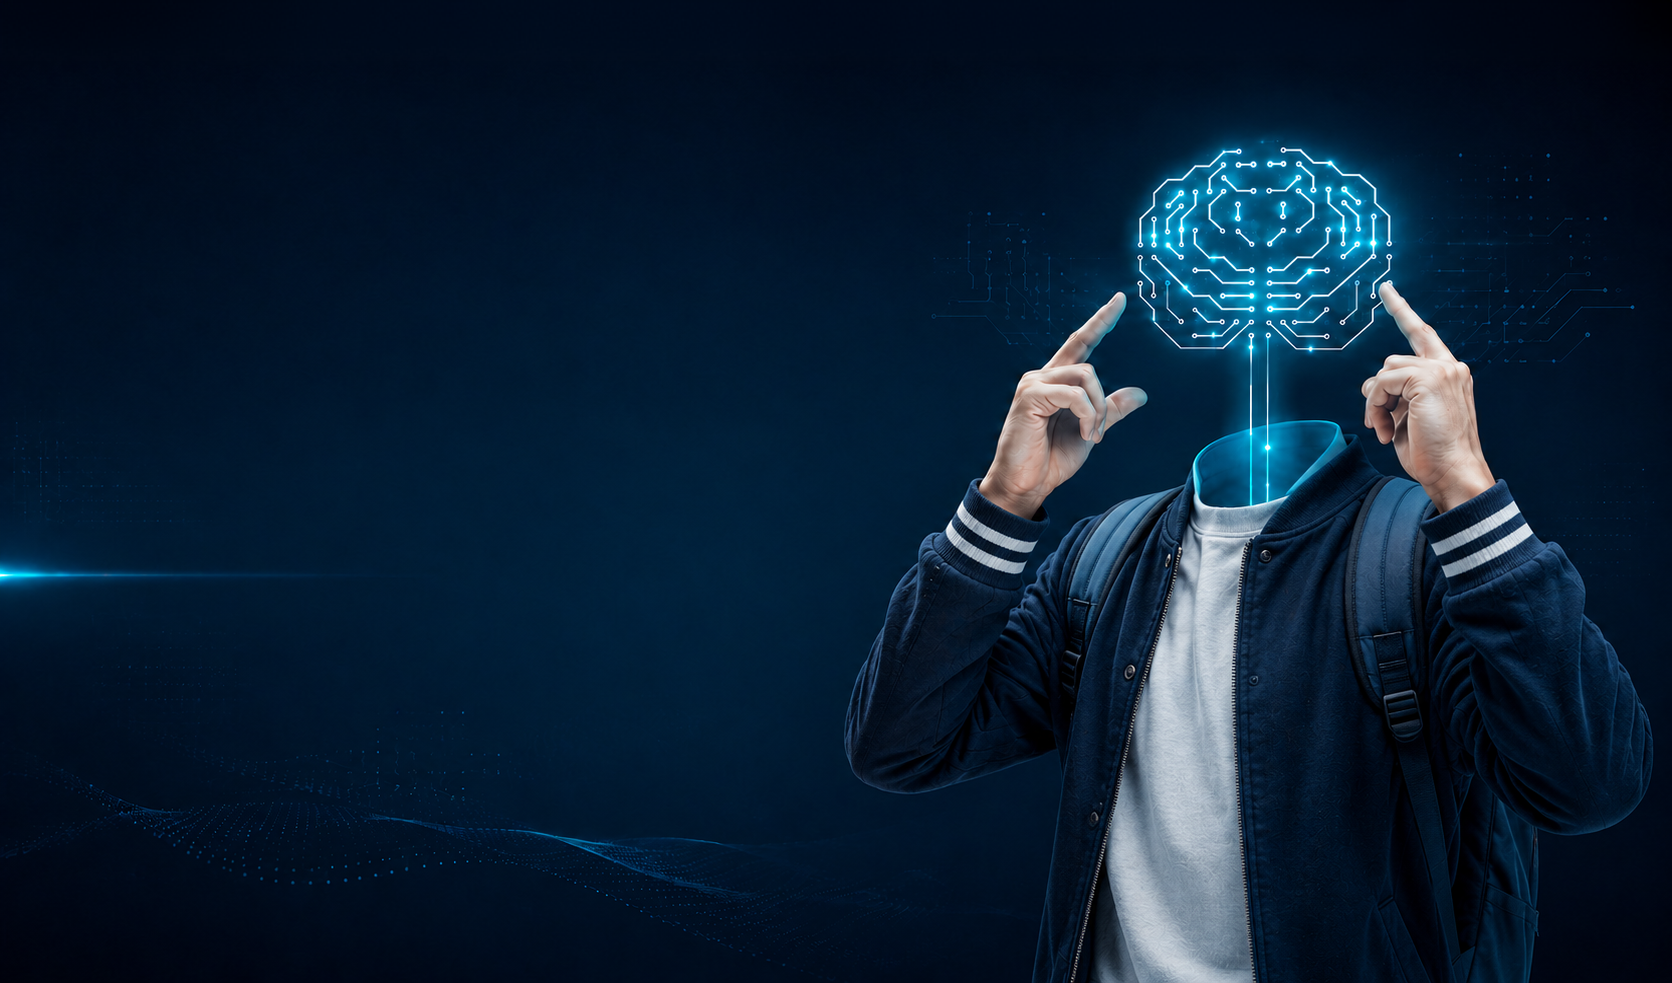
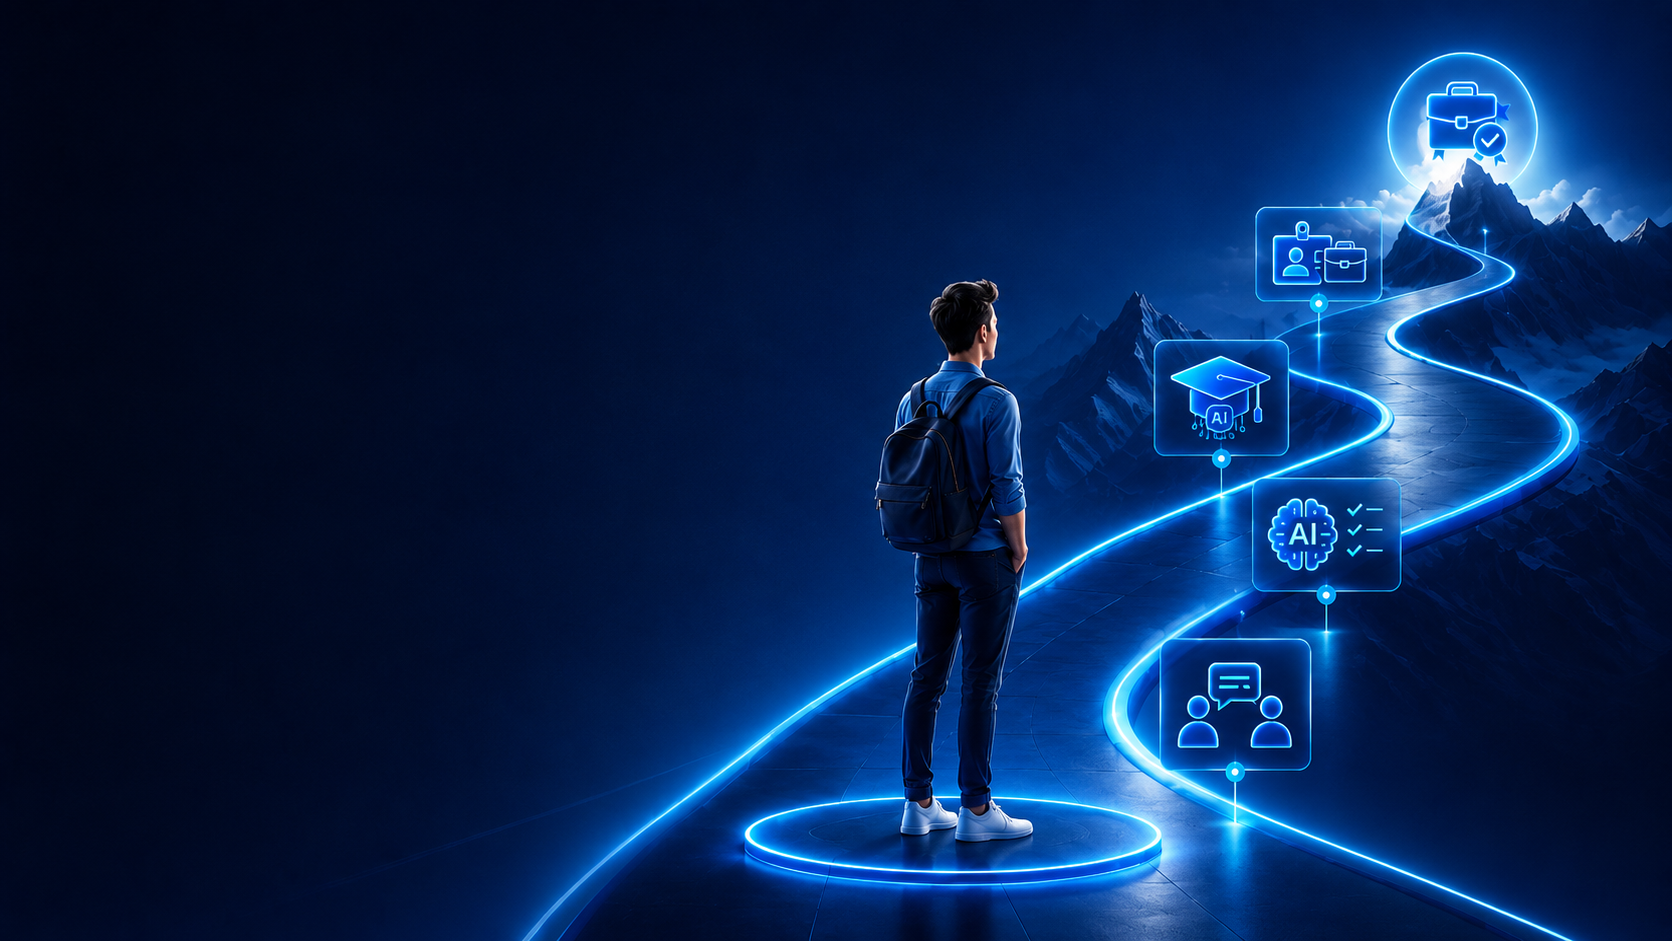
fixed hero page and direct2hire

diff --git a/client/components/sections/Hero.tsx b/client/components/sections/Hero.tsx
@@ -1,23 +1,30 @@
 import Link from "next/link";
-import { ArrowRight, CheckCircle2, Star, Users } from "lucide-react";
-import { Button } from "@/components/ui";
+import { ArrowRight, Users, ClipboardList, Briefcase, Award } from "lucide-react";
+import { Button, CyclingText } from "@/components/ui";
+
+const HERO_GRADIENT_STYLE = {
+  background: "linear-gradient(135deg, #2563EB 0%, #1D4ED8 100%)",
+  WebkitBackgroundClip: "text" as const,
+  WebkitTextFillColor: "transparent" as const,
+  backgroundClip: "text" as const,
+};
 
 const CARDS = [
   {
-    title: "Weekend Live Sessions",
-    description: "Every Saturday & Sunday. Learn without pausing your job or studies."
+    title: "Career Counselling",
+    description: "1-on-1 guidance from experts to map out the right career path for you."
   },
   {
-    title: "Real Projects + Certificate",
-    description: "Build portfolio projects and earn industry-recognized certificates."
+    title: "AI-Powered Assessment",
+    description: "Data-backed insights into your strengths, skills, and best-fit careers."
   },
   {
     title: "Guaranteed Internships",
-    description: "Top performers get real internship opportunities with partner companies."
+    description: "Hands-on industry internships that turn learning into real experience."
   },
   {
-    title: "Built for Busy People",
-    description: "Focused 3-5 week programs designed for students and working professionals."
+    title: "Job Placement Support",
+    description: "Get connected with 500+ hiring partners and land your first role."
   }
 ];
 
@@ -39,34 +46,34 @@ export function Hero() {
             <div className="anim-fade-up flex">
               <span className="inline-flex items-center gap-2 px-3 py-1.5 rounded-full bg-white border border-brand-200 text-brand-700 text-xs font-semibold tracking-wider shadow-sm">
                 <span className="w-2 h-2 rounded-full bg-green-500 animate-pulse" />
-                ALL NEW UPCOMING COURSES
+                THE DIRECT2HIRE PROGRAM
               </span>
             </div>
 
             {/* Heading */}
             <h1 className="mt-8 text-4xl sm:text-5xl lg:text-6xl font-bold tracking-tight text-slate-900 leading-[1.15] anim-fade-up stagger-1">
-              Learn AI on Weekends.<br />
-              Build Real Projects.<br />
-              <span
-                style={{
-                  background: "linear-gradient(135deg, #2563EB 0%, #1D4ED8 100%)",
-                  WebkitBackgroundClip: "text",
-                  WebkitTextFillColor: "transparent",
-                  backgroundClip: "text",
-                }}
-              >Get Certified + Internships.</span>
+              From Confusion<br />
+              to Career.<br />
+              <span className="inline-flex items-baseline flex-wrap">
+                <span style={HERO_GRADIENT_STYLE}>Get&nbsp;</span>
+                <CyclingText
+                  words={["Direct2Hire","AI Counselling", "AI Learning", "Internship","Placement"]}
+                  style={HERO_GRADIENT_STYLE}
+                />
+                <span style={HERO_GRADIENT_STYLE}>.</span>
+              </span>
             </h1>
 
             {/* Subtitle */}
             <p className="mt-6 max-w-xl text-lg text-slate-600 leading-relaxed anim-fade-up stagger-2">
-              Practical weekend programs designed for students and working professionals who want real skills and career outcomes.
+              Counselling, AI-powered assessment, skill-building, internships, and placement support — one program that takes you from learning to earning.
             </p>
 
             {/* CTAs */}
             <div className="mt-10 flex flex-wrap items-center gap-4 anim-fade-up stagger-3">
-              <Link href="/courses">
+              <Link href="/direct2hire">
                 <Button variant="primary" size="lg" className="h-14 px-8 text-base font-semibold shadow-lg shadow-brand-500/25 rounded-xl">
-                  Explore Programs
+                  Explore Direct2Hire
                   <ArrowRight className="h-5 w-5 ml-2" />
                 </Button>
               </Link>
@@ -86,7 +93,7 @@ export function Hero() {
                   </div>
                 ))}
               </div>
-              <span className="font-medium tracking-wide">600+ Students Already Enrolled</span>
+              <span className="font-medium tracking-wide">10,000+ Students Guided to a Career</span>
             </div>
           </div>
 
@@ -117,20 +124,25 @@ export function Hero() {
       <div className="container-x relative z-20 -mt-28 md:-mt-32">
         <div className="grid grid-cols-1 md:grid-cols-2 lg:grid-cols-4 gap-5">
           {CARDS.map((card, idx) => (
-            <div 
-              key={card.title} 
-              className={`bg-white rounded-[24px] p-8 shadow-[0_12px_40px_rgba(0,0,0,0.12)] border-2 border-brand-100 anim-fade-up hover:-translate-y-2 hover:shadow-[0_20px_60px_rgba(0,0,0,0.18)] transition-all duration-300 relative z-30`}
+            <Link
+              href="/direct2hire"
+              key={card.title}
+              className={`group bg-white rounded-[24px] p-8 shadow-[0_12px_40px_rgba(0,0,0,0.12)] border-2 border-brand-100 anim-fade-up hover:-translate-y-2 hover:border-brand-300 hover:shadow-[0_20px_60px_rgba(0,0,0,0.18)] transition-all duration-300 relative z-30`}
               style={{ animationDelay: `${200 + idx * 100}ms` }}
             >
-              <div className="w-12 h-12 rounded-2xl bg-brand-50 mb-6 flex items-center justify-center border border-brand-100/50 text-brand-600">
-                {idx === 0 && <CheckCircle2 className="w-6 h-6" />}
-                {idx === 1 && <Star className="w-6 h-6" />}
-                {idx === 2 && <Users className="w-6 h-6" />}
-                {idx === 3 && <ArrowRight className="w-6 h-6" />}
+              <div className="w-12 h-12 rounded-2xl bg-brand-50 mb-6 flex items-center justify-center border border-brand-100/50 text-brand-600 group-hover:bg-brand-100 transition-colors duration-300">
+                {idx === 0 && <Users className="w-6 h-6" />}
+                {idx === 1 && <ClipboardList className="w-6 h-6" />}
+                {idx === 2 && <Briefcase className="w-6 h-6" />}
+                {idx === 3 && <Award className="w-6 h-6" />}
               </div>
               <h3 className="text-lg font-bold text-gray-900 mb-3 leading-snug">{card.title}</h3>
-              <p className="text-[15px] text-gray-500 leading-relaxed">{card.description}</p>
-            </div>
+              <p className="text-[15px] text-gray-500 leading-relaxed mb-4">{card.description}</p>
+              <span className="inline-flex items-center gap-1.5 text-[13px] font-semibold text-brand-600">
+                Learn more
+                <ArrowRight className="h-3.5 w-3.5 transition-transform duration-200 group-hover:translate-x-1" />
+              </span>
+            </Link>
           ))}
         </div>
       </div>

diff --git a/client/components/ui/CyclingText.tsx b/client/components/ui/CyclingText.tsx
@@ -1,0 +1,60 @@
+"use client";
+
+import { useEffect, useState, type CSSProperties } from "react";
+
+const TYPE_SPEED = 80;
+const DELETE_SPEED = 45;
+const PAUSE_AFTER_TYPE = 1600;
+const PAUSE_AFTER_DELETE = 300;
+
+interface CyclingTextProps {
+  words: string[];
+  style?: CSSProperties;
+  className?: string;
+  cursorClassName?: string;
+}
+
+export function CyclingText({ words, style, className, cursorClassName }: CyclingTextProps) {
+  const [wordIndex, setWordIndex] = useState(0);
+  const [subIndex, setSubIndex] = useState(words[0]?.length ?? 0);
+  const [deleting, setDeleting] = useState(false);
+
+  useEffect(() => {
+    if (words.length === 0) return;
+    const currentWord = words[wordIndex];
+
+    if (!deleting && subIndex === currentWord.length) {
+      const t = setTimeout(() => setDeleting(true), PAUSE_AFTER_TYPE);
+      return () => clearTimeout(t);
+    }
+
+    if (deleting && subIndex === 0) {
+      const t = setTimeout(() => {
+        setDeleting(false);
+        setWordIndex((i) => (i + 1) % words.length);
+      }, PAUSE_AFTER_DELETE);
+      return () => clearTimeout(t);
+    }
+
+    const t = setTimeout(
+      () => setSubIndex((s) => s + (deleting ? -1 : 1)),
+      deleting ? DELETE_SPEED : TYPE_SPEED
+    );
+    return () => clearTimeout(t);
+  }, [subIndex, deleting, wordIndex, words]);
+
+  const currentWord = words[wordIndex] ?? "";
+
+  return (
+    <span className="inline-flex items-baseline">
+      <span style={style} className={className}>
+        {currentWord.slice(0, subIndex)}
+      </span>
+      <span
+        aria-hidden
+        className={cursorClassName ?? "ml-1 inline-block w-[3px] h-[0.8em] bg-blue-600 align-middle"}
+        style={{ animation: "cursor-blink 0.9s steps(1) infinite" }}
+      />
+    </span>
+  );
+}

diff --git a/client/app/globals.css b/client/app/globals.css
@@ -2,7 +2,7 @@
 
 @theme {
   /* ── Ultra-dark navy-black backgrounds (kept — still used by
-       admin/auth/course-detail/about/contact/counseling pages,
+       admin/auth/course-detail/about/contact/direct2hire pages,
        not redesigned in this pass) ── */
   --color-ink-950: #050B14;
   --color-ink-900: #080F1C;
@@ -112,6 +112,12 @@
 @keyframes border-spin {
   to {
     --angle: 360deg;
+  }
+}
+
+@keyframes cursor-blink {
+  50% {
+    opacity: 0;
   }
 }
 

diff --git a/client/app/contact/page.tsx b/client/app/contact/page.tsx
@@ -25,7 +25,7 @@ const CONTACT_INFO = [
     icon: Phone,
     label: "Call Us",
     value: "[phone redacted]",
-    sub: "Mon–Sat, 9am–9pm",
+    sub: "Mon–Sat, 10am-6pm",
     href: "tel:[phone redacted]",
     color: "text-blue-600",
     bg: "bg-blue-50 border-blue-100",
@@ -45,7 +45,7 @@ const CONTACT_INFO = [
     icon: MapPin,
     label: "Our Office",
     value: "Mumbai, Maharashtra, India",
-    sub: "Visit us anytime",
+    sub: "",
     href: undefined,
     color: "text-emerald-600",
     bg: "bg-emerald-50 border-emerald-100",

diff --git a/client/components/sections/Direct2HireBanner.tsx b/client/components/sections/Direct2HireBanner.tsx
@@ -139,7 +139,7 @@ export function Direct2HireBanner() {
                 style={{ animation: "fade-up-in 0.7s 0.4s ease both" }}
               >
                 <Link
-                  href="/counseling"
+                  href="/direct2hire"
                   className="group inline-flex items-center gap-2 rounded-xl bg-blue-600 px-6 py-3 text-[14px] font-semibold text-white transition-all duration-200 hover:bg-blue-700 hover:-translate-y-0.5 active:translate-y-0"
                   style={{ boxShadow: "0 4px 14px rgba(59,130,246,0.35)" }}
                 >
@@ -147,7 +147,7 @@ export function Direct2HireBanner() {
                   <ArrowRight className="h-4 w-4 transition-transform duration-200 group-hover:translate-x-1" />
                 </Link>
                 {/* <Link
-                  href="/counseling"
+                  href="/direct2hire"
                   className="group inline-flex items-center gap-2 rounded-xl border border-blue-200 bg-white/80 px-6 py-3 text-[14px] font-semibold text-blue-700 backdrop-blur-sm transition-all duration-200 hover:border-blue-400 hover:bg-white hover:-translate-y-0.5 active:translate-y-0 shadow-sm"
                 >
                   Learn More

diff --git a/client/data/navigation.ts b/client/data/navigation.ts
@@ -3,7 +3,7 @@ import type { NavItem, FooterColumn, SocialLink } from "@/types";
 export const NAV_ITEMS: NavItem[] = [
   { label: "Home", href: "/" },
   { label: "Learning", href: "/courses" },
-  { label: "Counseling", href: "/counseling" },
+  { label: "Direct2Hire", href: "/direct2hire" },
   { label: "Internships", href: "/internships" },
   { label: "Marketplace", href: "/marketplace" },
   { label: "Contact", href: "/contact" },
@@ -15,7 +15,7 @@ export const FOOTER_COLUMNS: FooterColumn[] = [
     title: "Platforms",
     items: [
       { label: "Learning", href: "/courses" },
-      { label: "Counseling", href: "/counseling" },
+      { label: "Direct2Hire", href: "/direct2hire" },
       { label: "Marketplace", href: "/marketplace" },
     ],
   },

diff --git a/client/components/ui/index.ts b/client/components/ui/index.ts
@@ -5,3 +5,4 @@ export { AnimateOnScroll } from "./AnimateOnScroll";
 export { CountUp } from "./CountUp";
 export { HeroParticles } from "./HeroParticles";
 export { PenCursor } from "./PenCursor";
+export { CyclingText } from "./CyclingText";